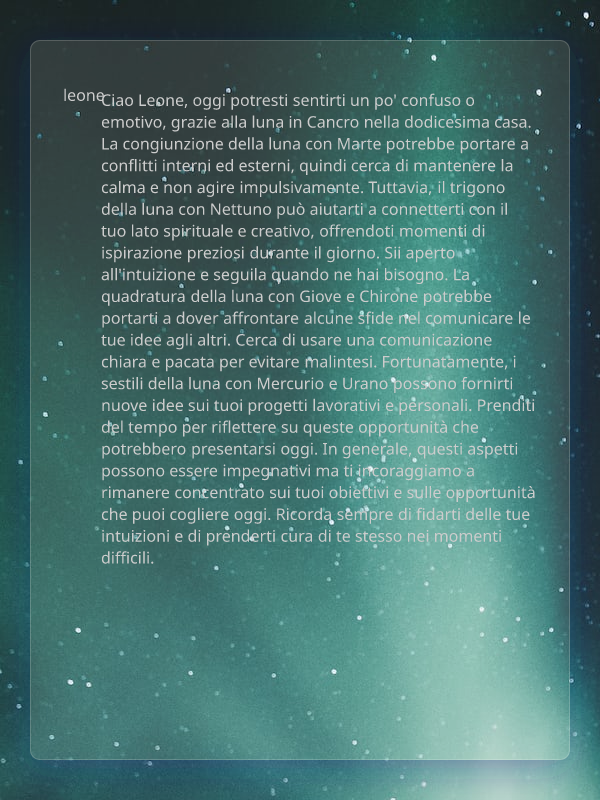
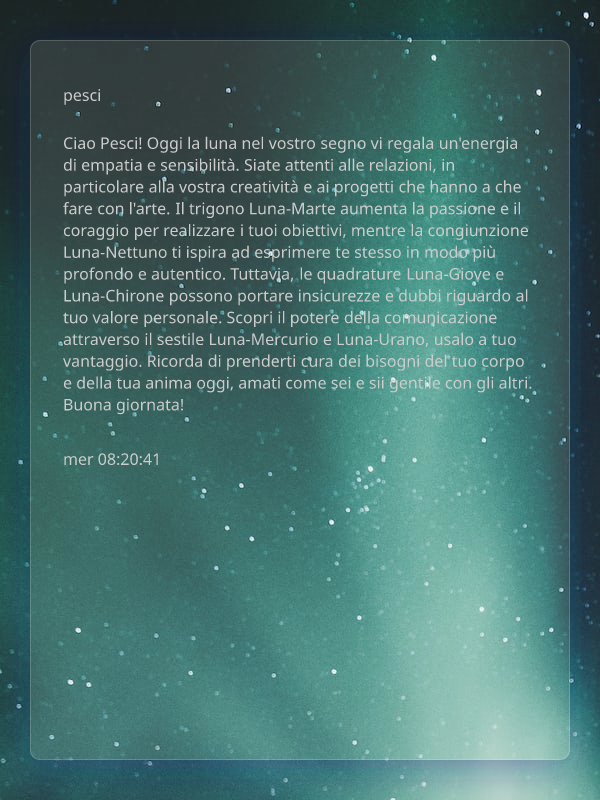
new cards

Changed region(s): [[0.09, 0.0938, 0.9, 0.7188]]

diff --git a/src/libs/generateOg.js b/src/libs/generateOg.js
@@ -1,53 +1,58 @@
 import { ImageResponse } from "@vercel/og";
-import Leo from '../../public/zodiac-icons/leo.svg'
+import Leo from "../../public/zodiac-icons/leo.svg";
 import fs from "fs";
+import { getItalianTimestamp } from "./dates";
+import path from "path";
 
 // export const config = {
 //   runtime: "edge",
 // };
 
-export async function generateOgImg () {
+export async function generateOgImg(sign) {
+
+  const timestamp = getItalianTimestamp();
+  const imagePath = path.join(
+    process.cwd(),
+    "public",
+    "cards",
+   sign.sign + ".png"
+  );
   const image = new ImageResponse(
     (
-        <div
+      <div
         style={{
-            height:'800px',
-            width: '600px',
-            backgroundImage: 'url("https://images.unsplash.com/photo-1517411032315-54ef2cb783bb?ixlib=rb-4.0.3&ixid=MnwxMjA3fDB8MHxzZWFyY2h8NXx8YXVyb3JhJTIwYm9yZWFsaXN8ZW58MHx8MHx8&auto=format&fit=crop&w=1400&q=60")',
-            backgroundSize:'cover',
-            display: 'flex',
-            justifyContent:'center',
-            alignItems:'center'
+          height: "800px",
+          width: "600px",
+          backgroundImage:
+            'url("https://images.unsplash.com/photo-1517411032315-54ef2cb783bb?ixlib=rb-4.0.3&ixid=MnwxMjA3fDB8MHxzZWFyY2h8NXx8YXVyb3JhJTIwYm9yZWFsaXN8ZW58MHx8MHx8&auto=format&fit=crop&w=1400&q=60")',
+          backgroundSize: "cover",
+          display: "flex",
+          justifyContent: "center",
+          alignItems: "center",
         }}
-        
-        >
-          <div
+      >
+        <div
           style={{
-           
-                background: "rgba( 255, 255, 255, 0.1 )",
-                boxShadow: "0 8px 32px 0 rgba( 31, 38, 135, 0.37 )",
-                backdropFilter: "blur( 10px )",
-                WebkitBackdropFilter: "blur( 10px )",
-                borderRadius: "10px",
-                border: "1px solid rgba( 255, 255, 255, 0.18 )",
-    
-                width: '90%',
-                height:'90%',
-                padding: '2rem',
-                color: '#ccc',
-              display:"flex",
-              
-    
+            background: "rgba( 255, 255, 255, 0.1 )",
+            boxShadow: "0 8px 32px 0 rgba( 31, 38, 135, 0.37 )",
+            backdropFilter: "blur( 10px )",
+            WebkitBackdropFilter: "blur( 10px )",
+            borderRadius: "10px",
+            border: "1px solid rgba( 255, 255, 255, 0.18 )",
+
+            width: "90%",
+            height: "90%",
+            padding: "2rem",
+            color: "#ccc",
+            display: "flex",
+            flexDirection: "column",
           }}
-          >
-<h1>leone</h1>
-            <p>
-
-           Ciao Leone, oggi potresti sentirti un po' confuso o emotivo, grazie alla luna in Cancro nella dodicesima casa. La congiunzione della luna con Marte potrebbe portare a conflitti interni ed esterni, quindi cerca di mantenere la calma e non agire impulsivamente. Tuttavia, il trigono della luna con Nettuno può aiutarti a connetterti con il tuo lato spirituale e creativo, offrendoti momenti di ispirazione preziosi durante il giorno. Sii aperto all'intuizione e seguila quando ne hai bisogno. La quadratura della luna con Giove e Chirone potrebbe portarti a dover affrontare alcune sfide nel comunicare le tue idee agli altri. Cerca di usare una comunicazione chiara e pacata per evitare malintesi. Fortunatamente, i sestili della luna con Mercurio e Urano possono fornirti nuove idee sui tuoi progetti lavorativi e personali. Prenditi del tempo per riflettere su queste opportunità che potrebbero presentarsi oggi. In generale, questi aspetti possono essere impegnativi ma ti incoraggiamo a rimanere concentrato sui tuoi obiettivi e sulle opportunità che puoi cogliere oggi. Ricorda sempre di fidarti delle tue intuizioni e di prenderti cura di te stesso nei momenti difficili.
-
-            </p>
-          </div>
+        >
+          <h1>{sign.sign}</h1>
+          <p>{sign.horoscope}</p>
+          <p>{timestamp}</p>
         </div>
+      </div>
     ),
     {
       width: 600,
@@ -55,14 +60,15 @@ export async function generateOgImg () {
     }
   );
 
-  const data = await toDataURL_node(image);
-  console.log(data);
-  
-  return data
+  const dataUrl = await toDataURL_node(image);
+  const bufferData = Buffer.from(dataUrl, "base64");
+  const img = fs.writeFileSync(imagePath, bufferData);
+
+  return bufferData;
 }
 
 async function toDataURL_node(response) {
   let blob = await response.blob();
   let buffer = Buffer.from(await blob.arrayBuffer());
-  return  buffer.toString("base64");
+  return buffer.toString("base64");
 }

diff --git a/src/pages/api/handleImage.js b/src/pages/api/handleImage.js
@@ -1,29 +1,28 @@
+import { generateOgImg } from "@/libs/generateOg";
+import path from "path";
+import fs from "fs";
+import { getTodayYesterdayTomorrow } from "@/libs/dates";
+import { getJson } from "@/libs/getJson";
 
-import Card from '@/components/Card';
-import { getTodayYesterdayTomorrow } from '@/libs/dates';
-import generateImage from '@/libs/generateImage';
-import { getJson } from '@/libs/getJson';
-import nodeHtmlToImage from 'node-html-to-image'
-import ReactDOMServer from 'react-dom/server';
-import { zodiacSigns } from '../../../assets/zodiacSigns';
-
+// export const config = {
+//   runtime: "edge",
+// };
 
 export default async function handler(req, res) {
-  const {today, yesterday} = getTodayYesterdayTomorrow()
-  const signs = await getJson(today)
-  
+  const { today } = getTodayYesterdayTomorrow();
+  const signs = await getJson(today);
   try {
-    for (let sign of signs) {
-      console.log(sign ,'SEGNO')
-        const htmlString = ReactDOMServer.renderToString(<Card data={sign}/>);
-       await generateImage(htmlString, sign.sign).then(console.log('IMMAGINE GENERATA'))
+      
+      for (let sign of signs){
+     
 
-      }
+        await generateOgImg(sign);
+        console.log('done ', sign.sign)
 
-        res.status(200).json({response:'immagini generate'})
-        
-    } catch (error) {
-        console.log(error)
-        
     }
+    res.status(200).json({ msg: "all right"});
+  } catch (error) {
+    console.log(error);
+    res.status(400).json({ error });
+  }
 }

diff --git a/src/pages/api/handleImage2.js b/src/pages/api/handleImage2.js
@@ -1,0 +1,29 @@
+
+import Card from '@/components/Card';
+import { getTodayYesterdayTomorrow } from '@/libs/dates';
+import generateImage from '@/libs/generateImage';
+import { getJson } from '@/libs/getJson';
+import nodeHtmlToImage from 'node-html-to-image'
+import ReactDOMServer from 'react-dom/server';
+import { zodiacSigns } from '../../../assets/zodiacSigns';
+
+
+export default async function handler(req, res) {
+  const {today, yesterday} = getTodayYesterdayTomorrow()
+  const signs = await getJson(today)
+  
+  try {
+    for (let sign of signs) {
+      console.log(sign ,'SEGNO')
+        const htmlString = ReactDOMServer.renderToString(<Card data={sign}/>);
+       await generateImage(htmlString, sign.sign).then(console.log('IMMAGINE GENERATA'))
+
+      }
+
+        res.status(200).json({response:'immagini generate'})
+        
+    } catch (error) {
+        console.log(error)
+        
+    }
+}

diff --git a/src/libs/tweetImage.js b/src/libs/tweetImage.js
@@ -7,7 +7,7 @@ const client = new TwitterApi({
   accessSecret: process.env.ACCESS_TOKEN_SECRET,
 });
 export async function tweetCard(sign) {
-  const imagePath = path.join(process.cwd(), "public", "cards", sign + ".jpg");
+  const imagePath = path.join(process.cwd(), "public", "cards", sign + ".png");
   const mediaId = await client.v1.uploadMedia(imagePath);
   const newTweet = await client.v1.tweet("Hello!", { media_ids: mediaId });
 
